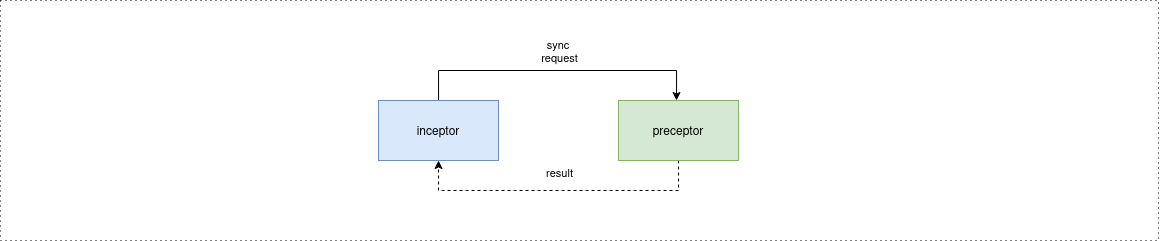
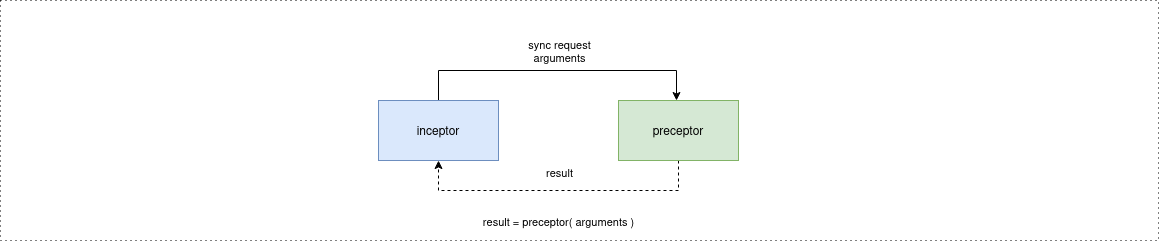
Auto commit

diff --git a/ru/siama.md b/ru/siama.md
@@ -76,26 +76,17 @@
 
 
 
-# Работа Inner инцептора
+# Инцептор Quartz
 
-1. Инцептор находится в цикле и вызывает указанный Прецептор с перечнем жестко 
-определенных аргументов.
+1. Inner Инцептор находится в цикле и вызывает указанный Прецептор с перечнем 
+жестко определенных аргументов.
 2. По результату ответа (код состояния Прецептора) Инцептор определяет по 
 собственной логике время следующего вызова Прецептора.
 3. Между вызовами пребывает в спящем режиме.
 
 
 
-# Работа Inner прецептора
-
-1. Прецептор ожидает синхронный вызов от любого Инцептора.
-2. Извлекает из аргументов имя `payload`, выполняет её и 
-возвращает результат. Допустима динамическая загрузка реализации.
-
-
-
-
-# Диспетчеры и Исполнители
+# Прецепторы Диспетчеры и Исполнители
 
 1. Так как множество Инцепторов должны взаимодействовать со множеством
 Прецепторов, они должны иметь информацию об их сетевом размещении (минимально
@@ -110,18 +101,40 @@ host:port).
 
 
 
+# Worker
+
+1. Inner Прецептор Worker ожидает синхронный вызов от любого Инцептора (в том 
+числе от Dispatcher) `payload/method/arguments`.
+2.  Извлекает имя `payload`, выполняет соответствующую реализацию `method` и 
+возвращает результат. Допустима динамическая загрузка реализации: `payload` может 
+быть загружен и выполнен по требованию.
+3.  Worker обязан предоставлять по запросу список поддерживаемых им `payload` для 
+регистрации в таблицах маршрутизации Dispatcher'ов.
+4.  Для Worker не рекомендуется внутренняя передача состояний между различными 
+реализациями вне прямого вызова.
+
+> **Примечание:** Worker — контейнер реализаций (payload). Dispatcher выбирает 
+> Worker, основываясь на том, поддерживает ли тот нужный payload, а Worker уже по 
+> имени payload загружает и выполняет конкретный код.
+
+
+
+
 ## Dispatcher
 
-1. Dispatcher принимает входящий синхронный вызов, содержащий данные о требуемой 
-работе (payload).
+1. Inner Прецептор Dispatcher принимает входящий синхронный вызов, содержащий 
+данные о требуемой работе (payload) `payload/method/arguments`.
 2. Анализирует payload и определяет, какой именно функционал должен быть выполнен.
 3. Обращается к внутренним таблицам маршрутизации, где хранится информация обо 
 всех доступных Worker (исполнителях): их специализация, текущая нагрузка, 
 доступность, результаты предыдущих вызовов.
 4. На основе этих данных выбирает оптимального Worker для выполнения конкретной задачи.
 5. Проксирует (перенаправляет) вызов на выбранного Worker, передавая ему исходные аргументы.
-6. Получает результат от Worker и возвращает его вызвавшему Инцептору.
-7. Так как Dispatcher'ов тоже множество, для организации единой точки входа 
+6. Если выбранный Worker недоступен или возвращает ошибку, Dispatcher может 
+повторить попытку, выбрав другого Worker'а, способного выполнить данный payload 
+(гарантия доставки обеспечивается механизмом синхронного повтора).
+7. Получает результат от Worker и возвращает его вызвавшему Инцептору.
+8. Так как Dispatcher'ов тоже множество, для организации единой точки входа 
 используется L3-балансировка, распределяющая входящие вызовы между ними.
 
 
@@ -136,8 +149,7 @@ host:port).
 
 2. Логика вызовов прецепторов может ветвиться в зависимости от требований
 бизнес-процесса, но в конечном счете это синхронный процесс, возвращающий
-Инцептору итоговый результат.
-
+Инцептору итоговый результат как `r = f1( a ), f1 = fn ∘ ⋯ ∘ f2`.
 
 ![](../images/siama/fig7.png)
 
@@ -170,6 +182,7 @@ host:port).
 
 
 
+# Общая схема взаимодействия
 
 
 ![](../images/siama/fig6.png)
